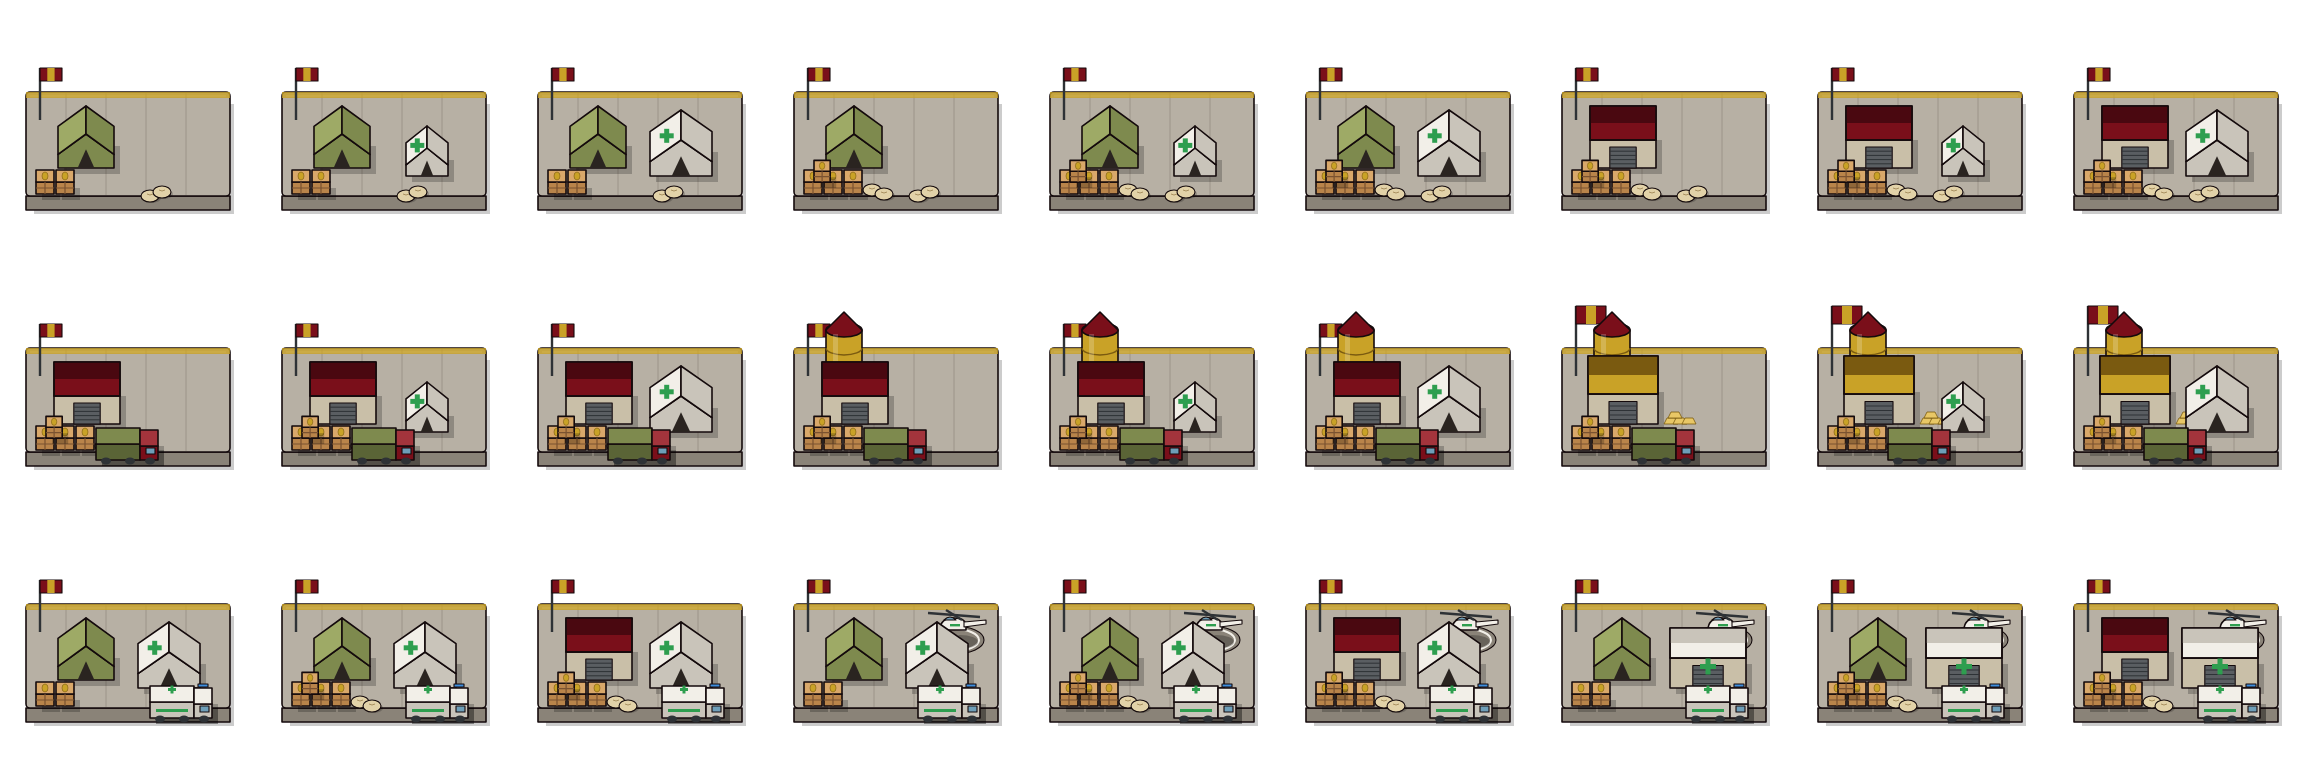
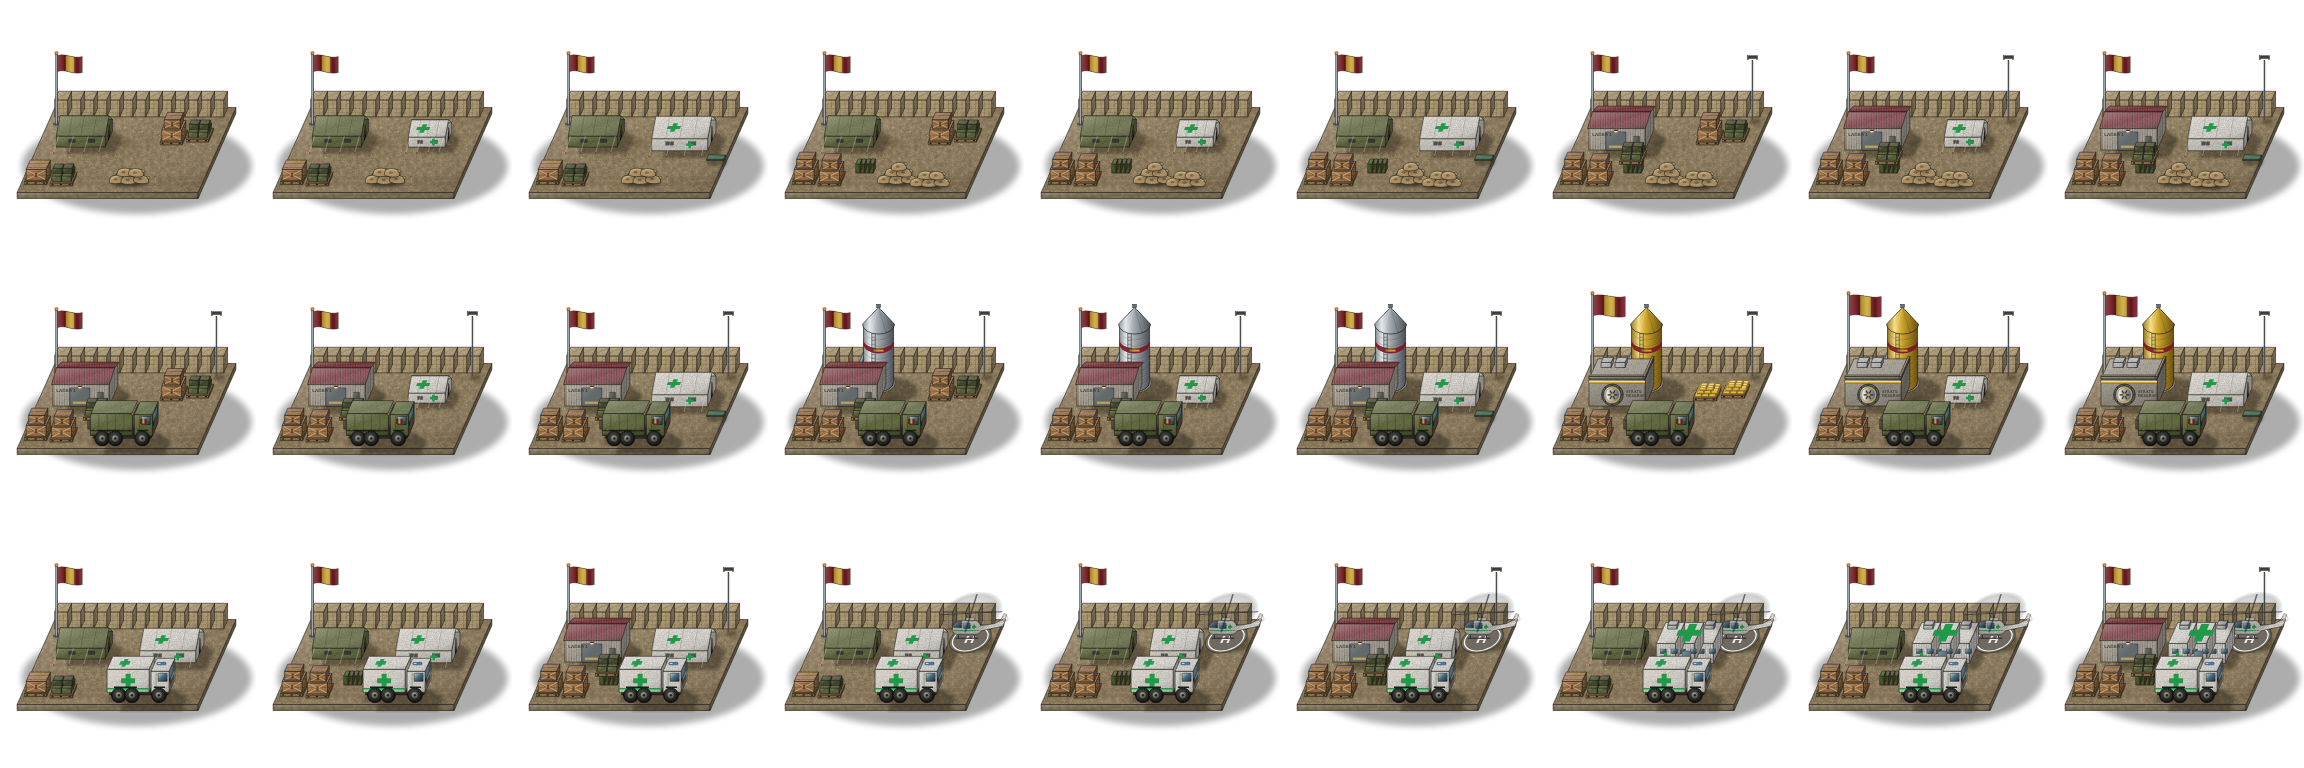
Logistik-Depot im neuen Detailstil (alle 27 Stufen)
Claude-Session: https://claude.ai/code/session_01H2UiKssafjRzK7unKsx8yK

diff --git a/index.html b/index.html
@@ -128,6 +128,6 @@ button{touch-action:manipulation}#feld{touch-action:none}
   <div id="toast" role="status" aria-live="polite" style="position:absolute;left:570px;top:96px;transform:translateX(-50%);display:none;z-index:5;background:#2B0509;border:2px solid #C9A227;border-radius:12px;padding:12px 20px;font-weight:800;font-size:17px;color:#E8C766;white-space:nowrap"></div>
   <div id="overlay"><div class="karte" id="overlayInhalt"></div></div>
 </div>
-<script src="spiel.js?v=2026-11-20-5"></script>
+<script src="spiel.js?v=2026-11-20-6"></script>
 </body>
 </html>

diff --git a/spiel.js b/spiel.js
@@ -1,7 +1,7 @@
 // Maiskolbistan Militär-Defense – Testkarte 1 (Westkolbistan)
 // Reines JavaScript, kein Bau-Schritt. Grafiken aus dem Maiskolbistan-Info-Repo (seiten/td-ranger-sprites).
 'use strict';
-const VERSION = '2026-11-20-5';   // bei jedem Update hochzählen (auch in index.html)
+const VERSION = '2026-11-20-6';   // bei jedem Update hochzählen (auch in index.html)
 
 (() => {
   const W = 1140, H = 810, MITTE = 570;

diff --git a/README.md b/README.md
@@ -135,7 +135,7 @@ Anzeige im Spiel: Rauch-, Lawinen- und Sandsturmwolken, eingefrorene Türme (bla
 
 ## Grafikstil (Umstellung läuft)
 
-Der **Ranger** ist im neuen, detaillierteren Stil gezeichnet (nach Fotovorlagen): vorgelehnter Anschlag, Plattenträger, Helm mit Headset, Gewehr in M4-Bauart, Stofftextur und Tarnmuster, Licht von oben links. Stufen: Präzision 1 Laservisier (Strahl) · 2 Elite (Zielfernrohr, goldene Winkel) · 3 Nachtsichtgerät · 4 schweres Gewehr (langer Lauf, Zweibein) · 5 leichtes MG mit Patronenkasten. Sturm 1 Goldspitzen-Munition · 2 Waffenlicht · 3 Schulter-, Hals- und Leistenschutz · 4 Granatwerfer und Handgranaten · 5 Sturmhaube mit Visier. Der **Scharfschütze** ist ebenfalls umgestellt (kniender Anschlag, Ellbogen auf dem Knie, Gewehr in M110-Bauart): Phantom 1 Buschhut + Tarnschminke · 2 Wärmebild-Vorsatz · 3 Schalldämpfer · 4 Ghillie-Kapuze und Tarnstreifen · 5 voller Ghillie mit Maisblättern; Schwerkaliber 1 längerer Lauf · 2 .50-Gewehr mit Mündungsbremse · 3 Helm und Panzerung · 4 Leuchtpistole · 5 Laser-Gewehr. Der **Juggernaut** ebenfalls (schwere Plattenrüstung mit Visierhelm, Minigun in M134-Bauart in Hüfthöhe, Munitionsrucksack mit Gurt): Feuerwalze 1 goldene Kraft-Handschuhe · 2 goldene Gelenkdämpfer · 3 lange Läufe · 4 Power-Minigun · 5 HE (glühende Läufe, rotes Visier, Hörner); Doppelfeuer 1 goldener Tragegriff · 2 AP-Gurt (gold) · 3 zweite Minigun am Schulterarm · 4 Cyan-Energierucksack · 5 Volle Leistung (Goldkanten). Der **Railgunner** ebenfalls (Körper wie der Ranger, Schienenkanone mit Spulenringen und leuchtendem Kanal, Batteriepack; ab Geschützstellung eine Stellung hinter einer dreilagigen Sandsackmauer mit Dreibein, Schutzschild, Kondensatorbank und Generator): Schienen-Soldat 1 Kühlzellen · 2 Zielfernrohr · 3 längere Schienen · 4 Kampfanzug · 5 Gold-Spulen; Geschützstellung 1 Proto-Munition (violett) · 2 Blitzbögen · 3 Stellung · 4 Doppelrohr · 5 XRT-9000 (goldene Kondensatorbank). Die übrigen Türme folgen nacheinander.
+Der **Ranger** ist im neuen, detaillierteren Stil gezeichnet (nach Fotovorlagen): vorgelehnter Anschlag, Plattenträger, Helm mit Headset, Gewehr in M4-Bauart, Stofftextur und Tarnmuster, Licht von oben links. Stufen: Präzision 1 Laservisier (Strahl) · 2 Elite (Zielfernrohr, goldene Winkel) · 3 Nachtsichtgerät · 4 schweres Gewehr (langer Lauf, Zweibein) · 5 leichtes MG mit Patronenkasten. Sturm 1 Goldspitzen-Munition · 2 Waffenlicht · 3 Schulter-, Hals- und Leistenschutz · 4 Granatwerfer und Handgranaten · 5 Sturmhaube mit Visier. Der **Scharfschütze** ist ebenfalls umgestellt (kniender Anschlag, Ellbogen auf dem Knie, Gewehr in M110-Bauart): Phantom 1 Buschhut + Tarnschminke · 2 Wärmebild-Vorsatz · 3 Schalldämpfer · 4 Ghillie-Kapuze und Tarnstreifen · 5 voller Ghillie mit Maisblättern; Schwerkaliber 1 längerer Lauf · 2 .50-Gewehr mit Mündungsbremse · 3 Helm und Panzerung · 4 Leuchtpistole · 5 Laser-Gewehr. Der **Juggernaut** ebenfalls (schwere Plattenrüstung mit Visierhelm, Minigun in M134-Bauart in Hüfthöhe, Munitionsrucksack mit Gurt): Feuerwalze 1 goldene Kraft-Handschuhe · 2 goldene Gelenkdämpfer · 3 lange Läufe · 4 Power-Minigun · 5 HE (glühende Läufe, rotes Visier, Hörner); Doppelfeuer 1 goldener Tragegriff · 2 AP-Gurt (gold) · 3 zweite Minigun am Schulterarm · 4 Cyan-Energierucksack · 5 Volle Leistung (Goldkanten). Der **Railgunner** ebenfalls (Körper wie der Ranger, Schienenkanone mit Spulenringen und leuchtendem Kanal, Batteriepack; ab Geschützstellung eine Stellung hinter einer dreilagigen Sandsackmauer mit Dreibein, Schutzschild, Kondensatorbank und Generator): Schienen-Soldat 1 Kühlzellen · 2 Zielfernrohr · 3 längere Schienen · 4 Kampfanzug · 5 Gold-Spulen; Geschützstellung 1 Proto-Munition (violett) · 2 Blitzbögen · 3 Stellung · 4 Doppelrohr · 5 XRT-9000 (goldene Kondensatorbank). Das **Logistik-Depot** ebenfalls (echte Schrägansicht mit Licht von links oben und Schlagschatten: Kiesplatz mit HESCO-Wall, Fahne, Holzkisten auf Paletten, Munitionskisten, Kornsäcke): Versorgung 1 mehr Kisten und Kanister · 2 Wellblech-Lagerhalle mit Rolltor und Flutlicht · 3 Lkw mit Plane · 4 Kornsilo mit Förderrohr · 5 Staatsreserve (Tresorbau, goldenes Silo, Goldbarren); Sanität 1 Sanitätszelt · 2 Feldlazarett mit Trage · 3 Krankenwagen · 4 Rettungshubschrauber auf Landeplatz · 5 Feldkrankenhaus aus Containern (grünes Kreuz). Die übrigen Türme folgen nacheinander.
 
 ## Turm-Paket 1 (nach TDX-Wiki)
 
